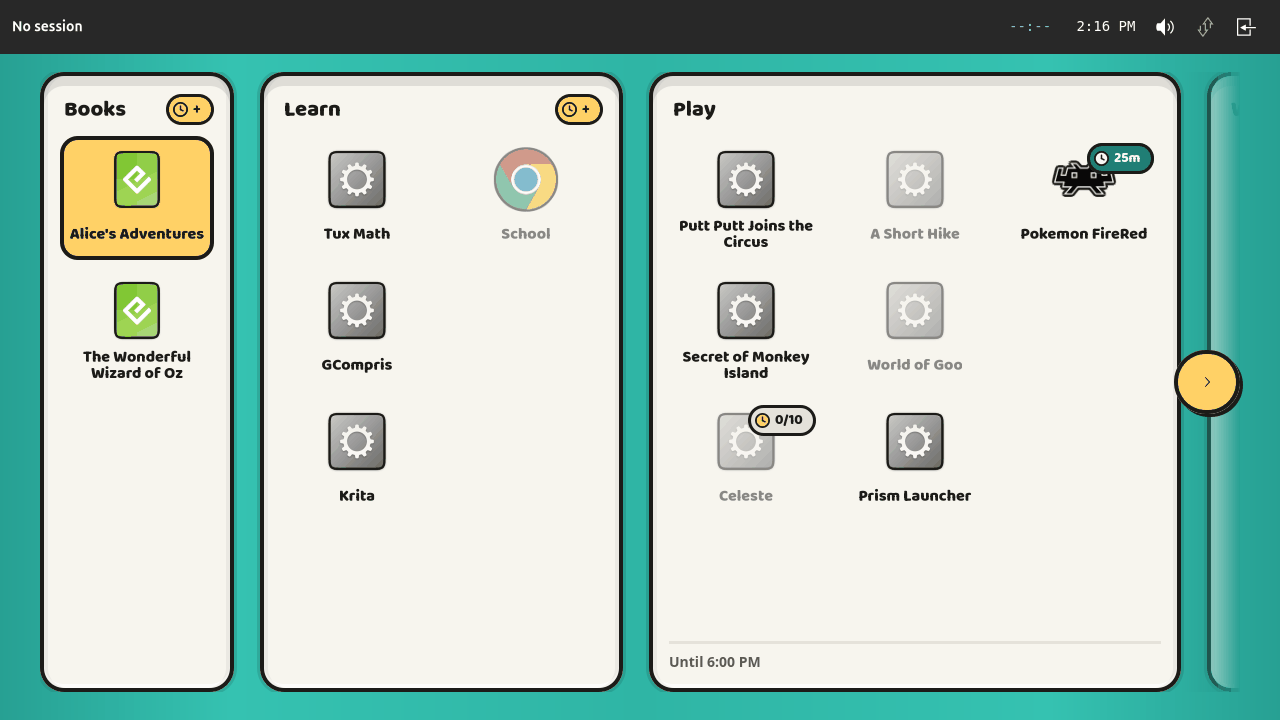
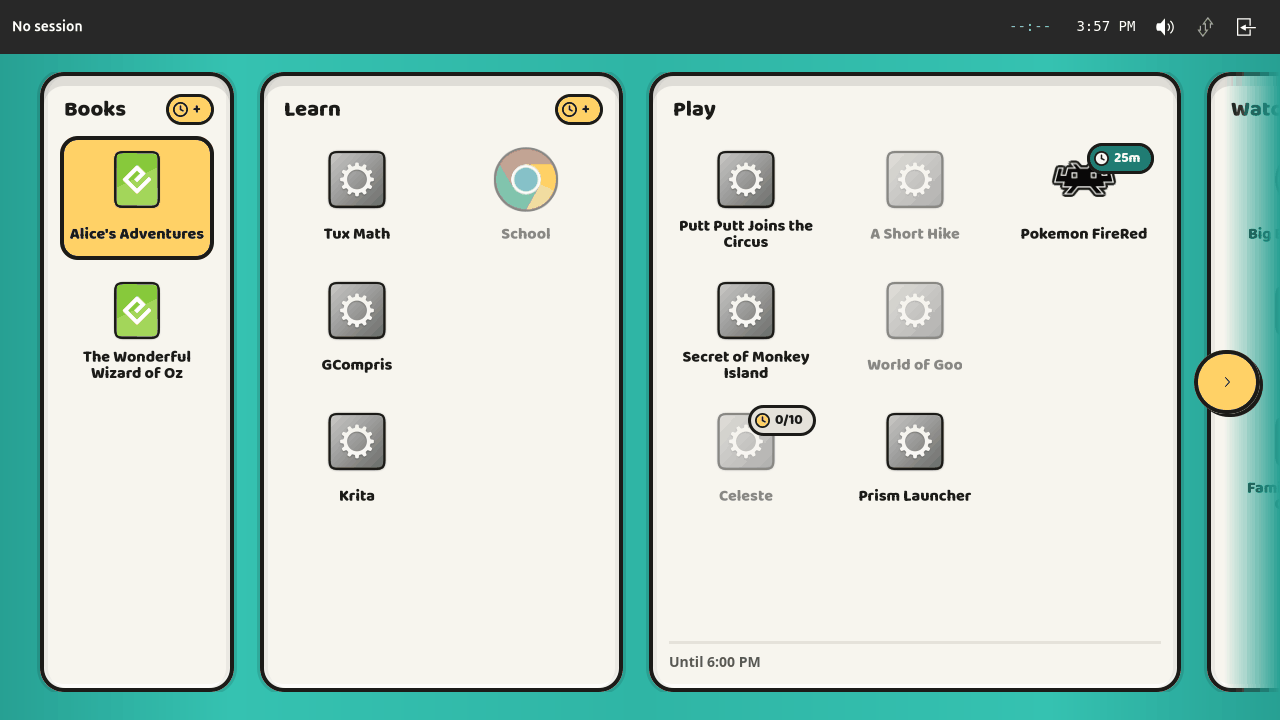
Fade the row to the screen edge, and scroll to the initial selection (#207)
The edge fade still showed a hard vertical line. Two further faults behind it.

## The fade could not match the sheen it sat on

The field's 40px side margins were padding on `.lb-field`, so the scroll
viewport — and the fade with it — stopped 40px short of the screen edge. The
fade painted a flat `#27A093`, the sheen's *edge* stop, at a place where the
sheen has not reached it: about `(41, 166, 152)` against the fade's
`(39, 160, 147)`. Five units, but uniform down the whole height, which the eye
reads as a line.

A fade painted in one colour can only match a gradient at a single point, so
that point is now the one the fade ends on. The side margins move off the field
and onto the *row*, the viewport reaches the screen edge, and the fade ends
exactly where the sheen really is `#27A093`. The seam is gone, and content
scrolls off the edge of the screen rather than stopping short of it — which is
what it should have done anyway.

The chips keep their old distance from the edge with a margin of their own, now
that the overlay they sit in extends past where they used to stop.

## An initial selection off the first screenful was never scrolled to

Found while checking the mirrored left-hand fade, which needs a row that starts
scrolled. A config whose first available activity sits in a later compartment
came up showing the *start* of the row, with nothing selected on screen at all.

`restore_focus` does scroll, but it runs before anything is allocated: the
[…]

diff --git a/crates/lunchbox-launcher-ui/src/field.rs b/crates/lunchbox-launcher-ui/src/field.rs
@@ -118,6 +118,9 @@ mod imp {
         /// back, which is what makes "play one more round" a single press.
         pub last_launched: RefCell<Option<EntryId>>,
         pub scale: Cell<f64>,
+        /// Set when the field is rebuilt, cleared once the selection has
+        /// actually been scrolled into view. See `wire_scroll_chips`.
+        pub pending_scroll: Cell<bool>,
         /// The snapshot the field is currently drawing, kept so a change of
         /// scale can redraw it without waiting for the daemon to say anything
         /// new. The launcher is fullscreen on an output whose size it learns
@@ -140,6 +143,7 @@ mod imp {
                 on_launch: Rc::new(RefCell::new(None)),
                 last_launched: RefCell::new(None),
                 scale: Cell::new(1.0),
+                pending_scroll: Cell::new(false),
                 last_state: RefCell::new((Vec::new(), Vec::new())),
             }
         }
@@ -290,6 +294,12 @@ impl LauncherField {
         *imp.stacks.borrow_mut() = stacks;
 
         self.restore_focus(previous);
+        // `restore_focus` scrolls, but nothing is allocated yet at this point:
+        // the viewport still measures zero, so the scroll is a no-op and an
+        // initial selection in a compartment beyond the first screenful would
+        // be left off-screen with nothing visibly selected at all. Ask again
+        // once the adjustment knows its real size.
+        imp.pending_scroll.set(true);
         self.update_scroll_chips();
     }
 
@@ -536,10 +546,18 @@ impl LauncherField {
             }
         });
         let field = self.downgrade();
-        adj.connect_changed(move |_| {
-            if let Some(field) = field.upgrade() {
-                field.update_scroll_chips();
+        adj.connect_changed(move |adj| {
+            let Some(field) = field.upgrade() else {
+                return;
+            };
+            // The adjustment learns its page size and extent during
+            // allocation, which is the first moment a scroll can mean
+            // anything. Take the one the rebuild could not do.
+            if field.imp().pending_scroll.get() && adj.page_size() > 0.0 {
+                field.imp().pending_scroll.set(false);
+                field.scroll_to_cursor();
             }
+            field.update_scroll_chips();
         });
 
         for (button, dx) in [

diff --git a/crates/lunchbox-launcher-ui/src/theme.rs b/crates/lunchbox-launcher-ui/src/theme.rs
@@ -153,13 +153,20 @@ window.lb-launcher {
     font-family: "Baloo 2", "Comic Neue", sans-serif;
 }
 
+/* Vertical margins only. The side margins belong to the *row*, not the field,
+   so the scroll viewport reaches the screen edge — which is what lets the edge
+   fade end exactly where the enamel sheen reaches its own edge stop, and what
+   lets a scrolled compartment run off the screen rather than stopping 40px
+   short of it. */
 .lb-field {
-    padding: 24px 40px 28px 40px;
+    padding: 24px 0 28px 0;
 }
 
+/* The field's side margins, carried by the row so they scroll with it: the
+   first compartment starts 40px in, and the last one keeps 40px after it when
+   the row is scrolled to the end. */
 .lb-field__row {
-    /* Between compartments. */
-    margin: 0;
+    padding: 0 40px;
 }
 
 /* The edge the row runs out under, at whichever side it continues past.
@@ -188,6 +195,8 @@ window.lb-launcher {
 
 /* The yellow chevron chip at the edge the row continues past. */
 .lb-more {
+    /* Held off the screen edge by hand now that the overlay reaches it. */
+    margin: 0 20px;
     background-color: #FFD166;
     /* The GTK theme gives a button its own `background-image` gradient, which
        paints straight over a `background-color` and left this chip white. Any

diff --git a/docs/ai/history/2026-09-19 004 launcher-branding (#207).md b/docs/ai/history/2026-09-19 004 launcher-branding (#207).md
@@ -355,6 +355,31 @@ Worth knowing for anything else written against this palette: the far stop is
 `rgba(39, 160, 147, 0)` and not `transparent`, because `transparent` is
 transparent *black* and a gradient interpolating to it dips grey on the way out.
 
+The first cut of it still had a visible seam, and the reason is worth keeping.
+The field's 40px side margins were padding on `.lb-field`, so the scroll
+viewport — and the fade with it — stopped 40px short of the screen edge. The
+fade painted a flat `#27A093`, the sheen's *edge* stop, at a place where the
+sheen had not reached it: about `(41, 166, 152)` against the fade's
+`(39, 160, 147)`. Five units, but uniform down the whole height, which the eye
+reads as a line.
+
+A fade painted in a single colour can only match a gradient at one point, so
+the fix was to make that point the one the fade ends on: the side margins moved
+off the field and onto the *row*, the viewport now reaches the screen edge, and
+the fade ends exactly where the sheen really is `#27A093`. Content scrolls off
+the edge of the screen rather than stopping short of it, which is what it should
+have done anyway.
+
+**An initial selection off the first screenful was never scrolled to.** Found
+while checking the mirrored left-hand fade: a config whose first available
+activity sits in a later compartment came up showing the start of the row with
+nothing selected on screen at all. `restore_focus` does scroll, but it runs
+before anything is allocated, so the viewport still measures zero and
+`scroll_to_cursor` returns early. The rebuild now sets a pending flag that the
+adjustment's `changed` handler acts on, which is the first moment the viewport
+knows its real size. The brief's "exactly one focused item at all times when the
+field is showing" was quietly false before this for any bedtime-shaped policy.
+
 **The chevron chip was white, not yellow** — and had been all along, in every
 screenshot taken before this. `.lb-more` set `background-color` but not
 `background-image`, and the GTK theme paints a button's own gradient straight
